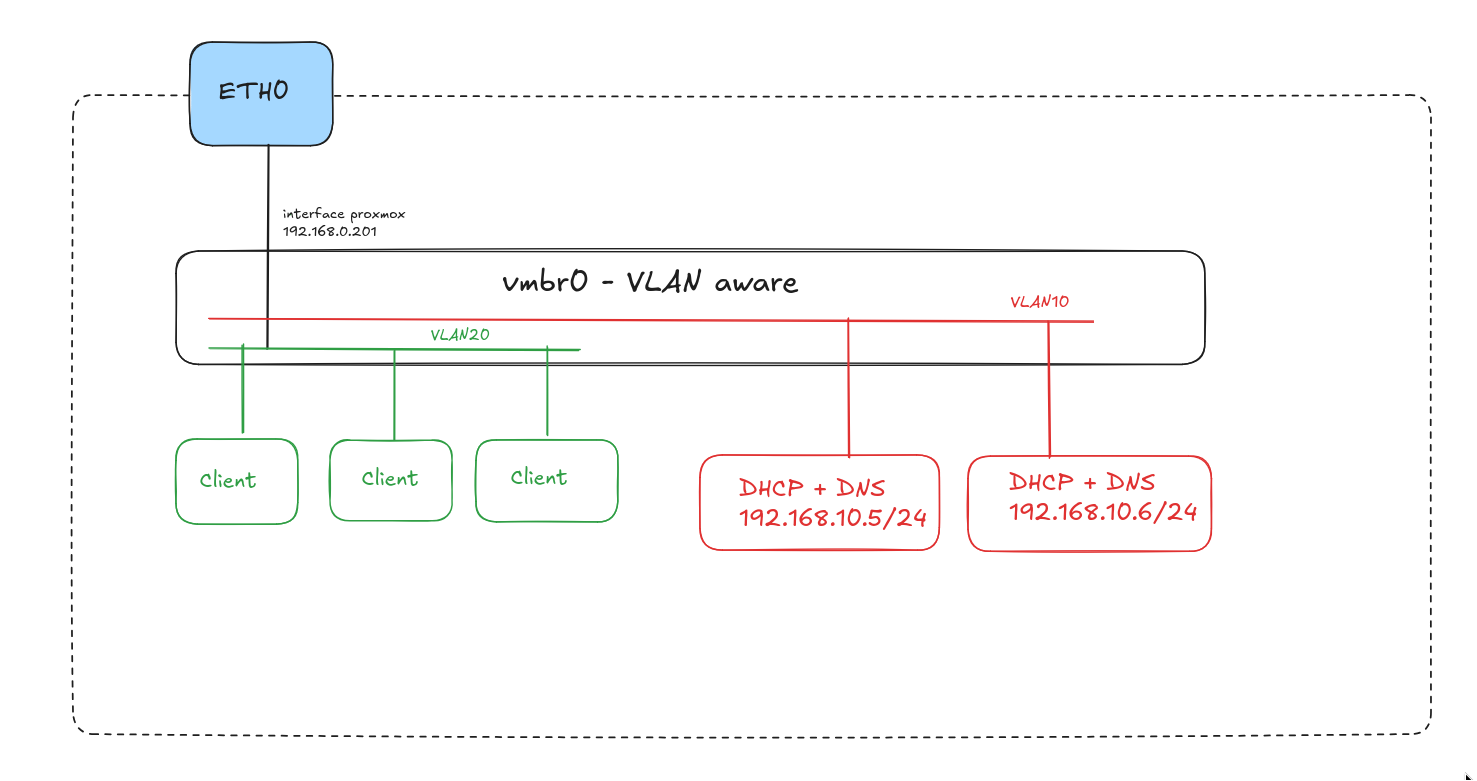
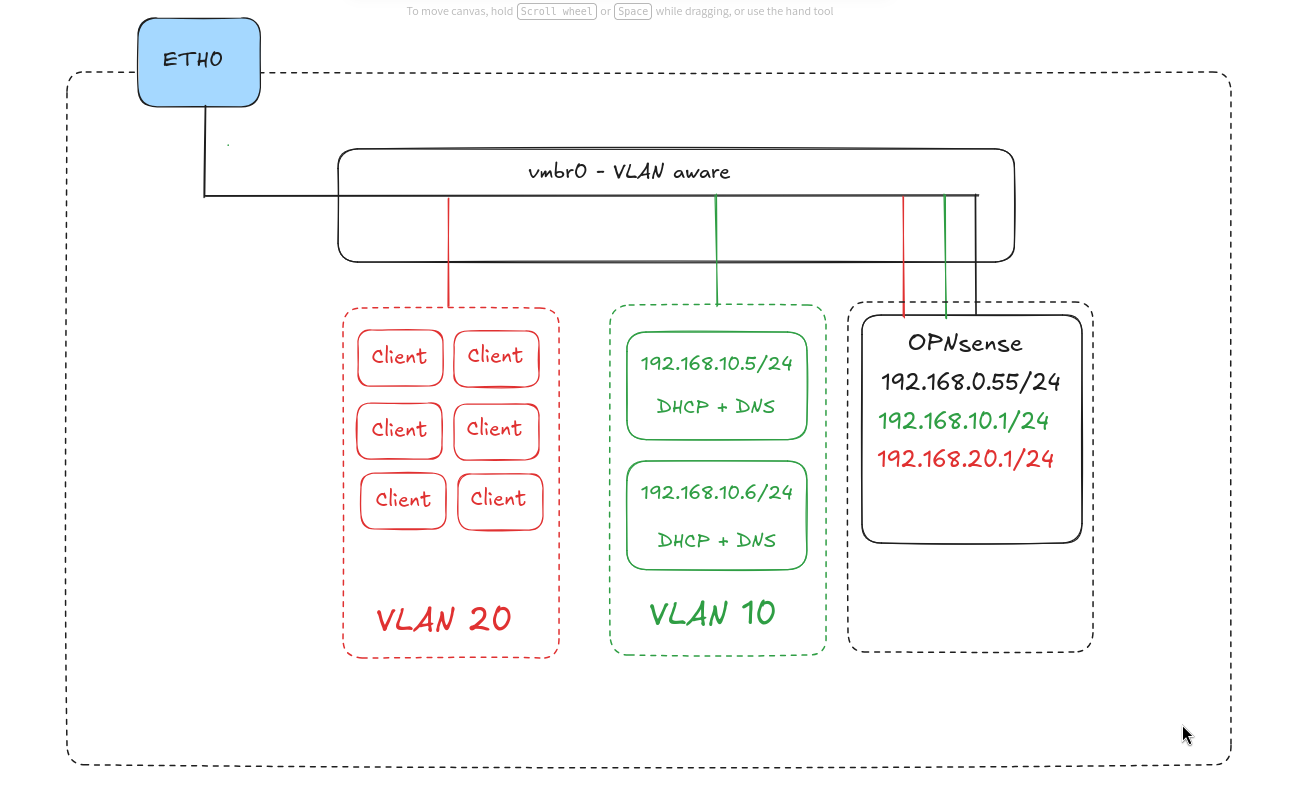
update

diff --git a/dhcp-ddns/objectif.md b/dhcp-ddns/objectif.md
@@ -22,7 +22,13 @@ Pour ce lab, je me suis orienté sur `kea-dhcp` et `bind`, touts les deux gratui
 
 La mise en place de l'infrastructure se fera avec des VM, sur un serveur avec un hyperviseur proxmox et l'utilisation d'une VM opnsense qui fera office de routeur pour joindre mes différents LAN, toutes les VM, sont des Linux Debian 13
 
+![topologie](./illustration/topologie.png)
 
+### OPNsense
+
+#### DHCP Relay
+
+#### NAT
 
 ### DHCP
 
@@ -63,7 +69,3 @@ dns 1 + 2 pour check axfr/ixfr
 dns2 pour voir si dhcp ajoute bien dans secondary
 
 dns1+2 pour voir si dns2 forward l'update vers le master
-
-## Annexe
-
-configuration complete dns + dhcp
